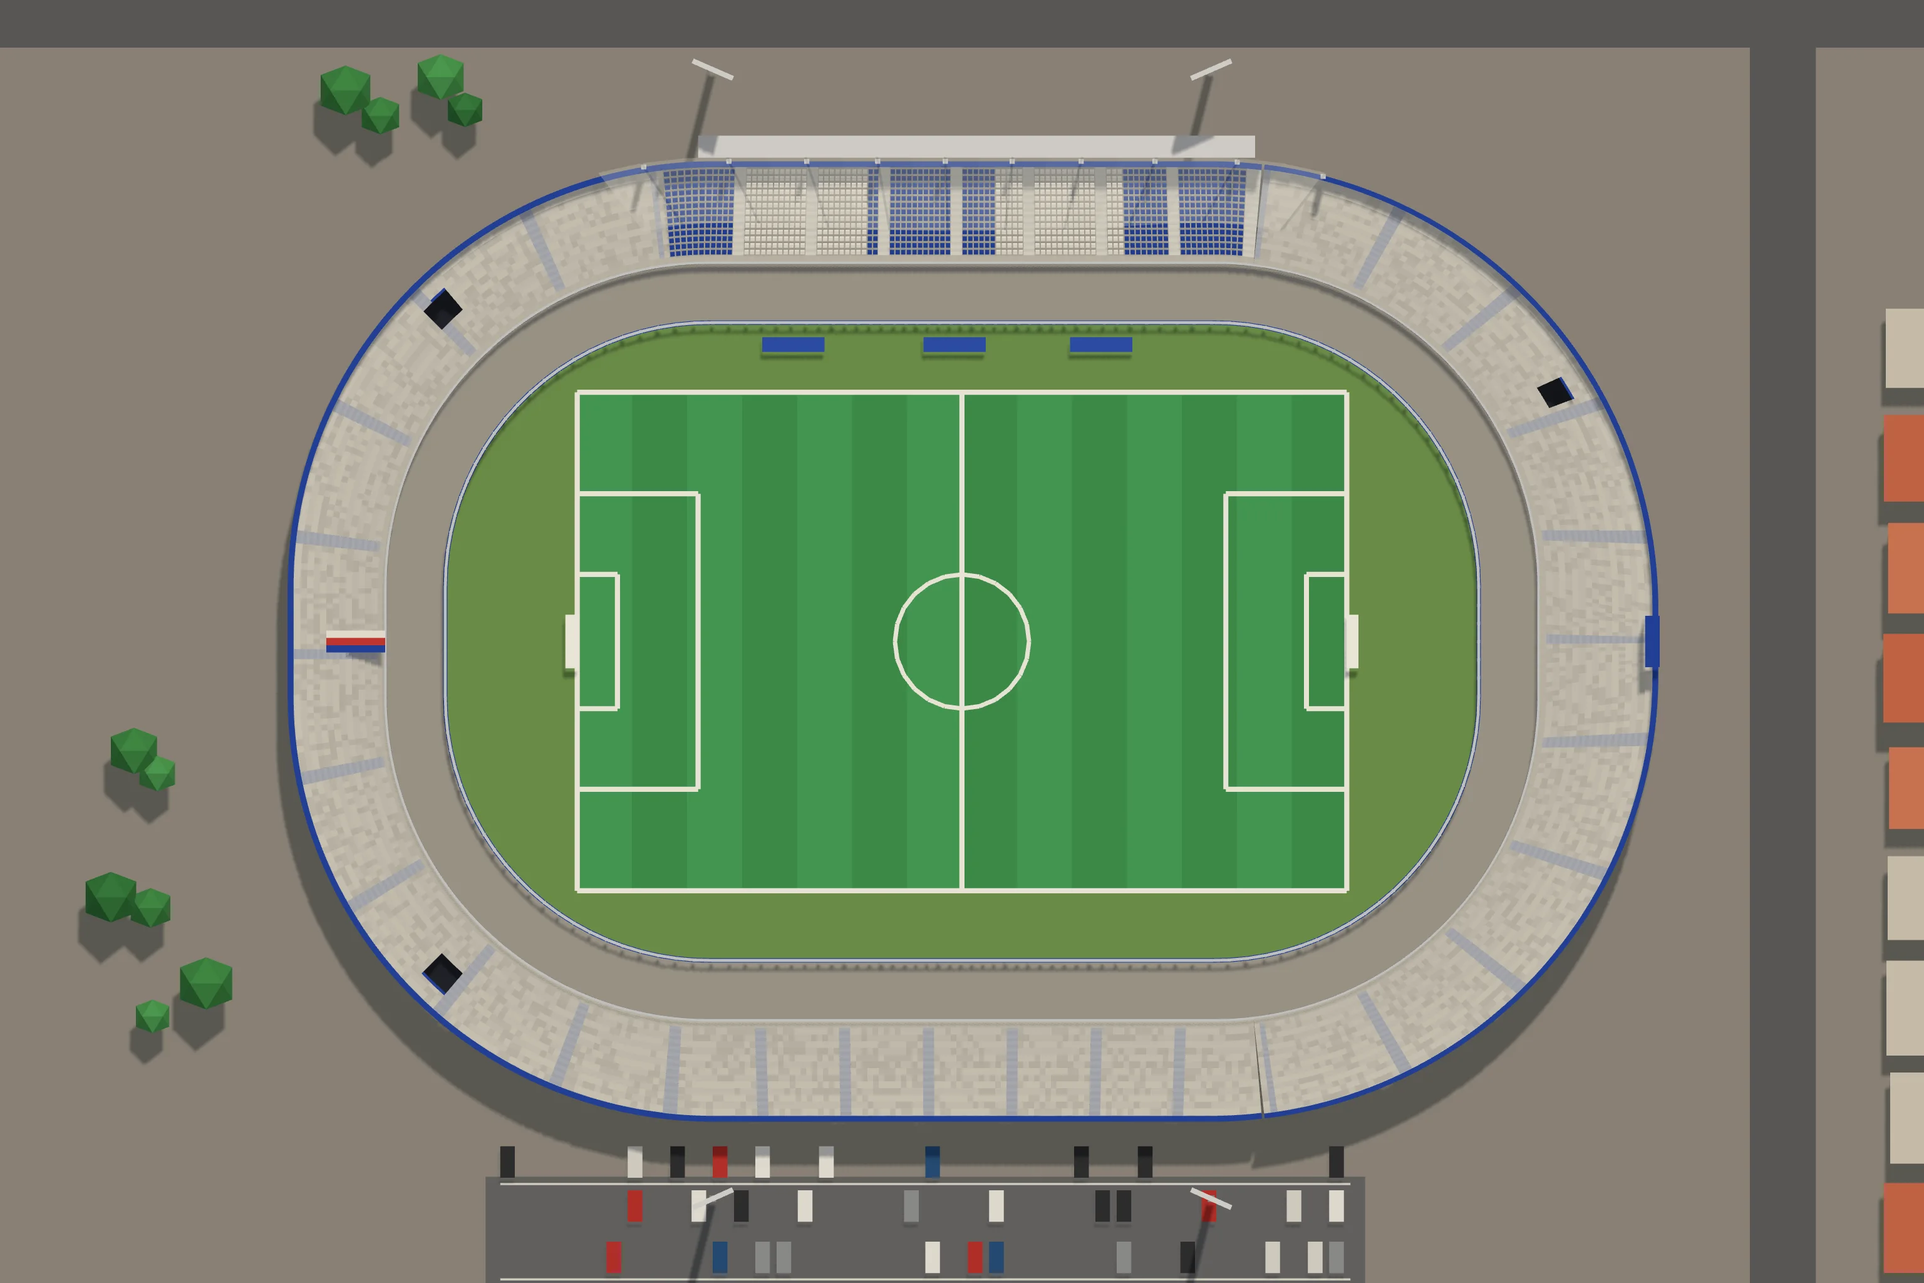
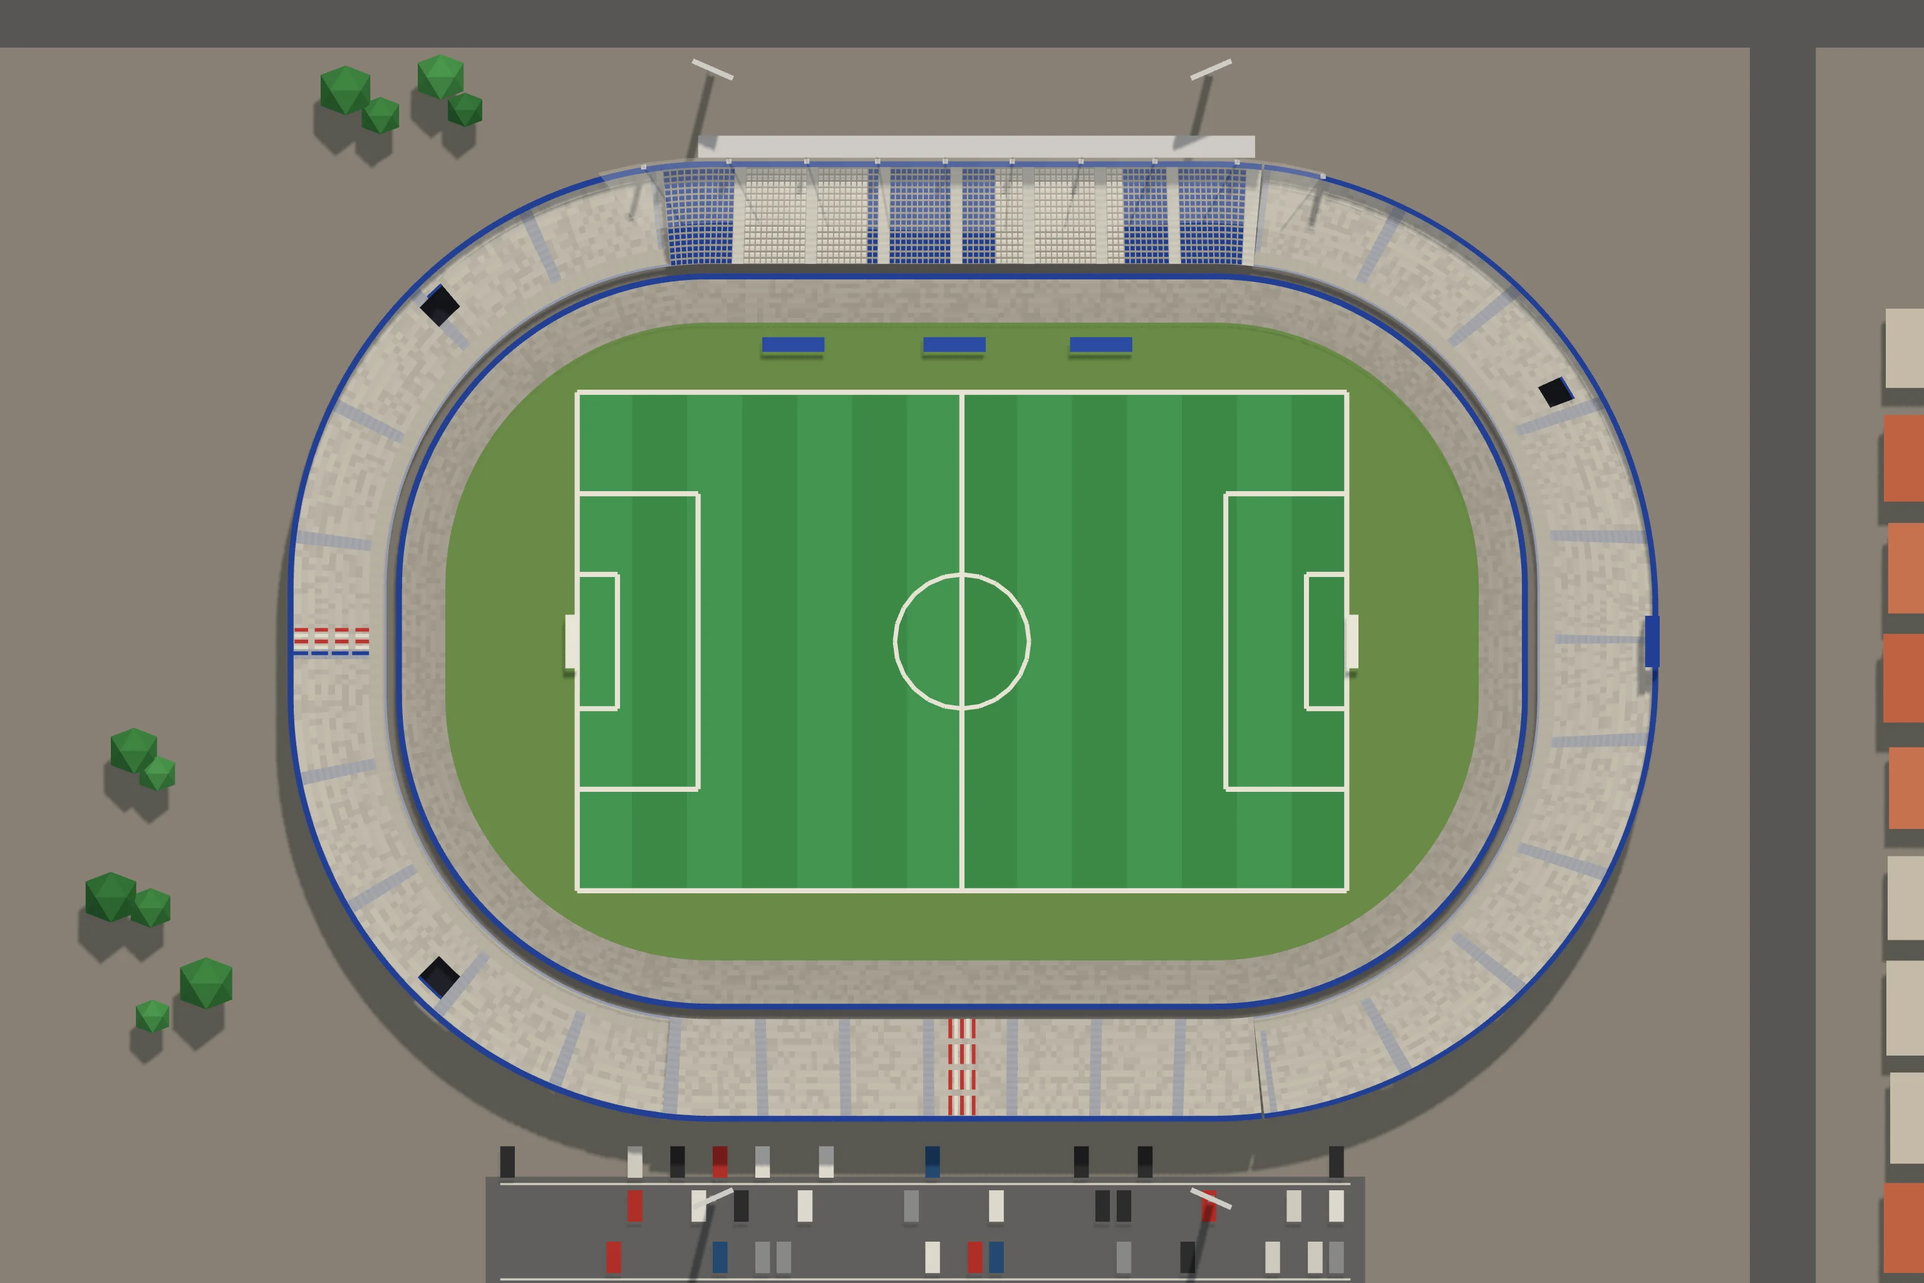
Jonas Duarte: a geral de degraus baixos em volta do gramado
Claude-Session: https://claude.ai/code/session_019hwwMAyyP7ZAvyq6wYTetr

diff --git a/cenario3d/planta.html b/cenario3d/planta.html
@@ -289,24 +289,24 @@ button:focus-visible, input:focus-visible { outline: 2px solid var(--selecao); o
 
 <script type="module">
 import * as THREE from 'https://cdn.jsdelivr.net/npm/three@0.160.0/build/three.module.min.js';
-import { planoDaCasa, montarCasa, juntarBlocos, lugarDoDecalque, placasDoLote, segmentosDoMuro, carrosDoEstacionamento, portaoDoEstacionamento } from './js/casas3d.js?v=cc6ef40957';
-import { montarModelos } from './js/modelos3d.js?v=cc6ef40957';
-import { moldeDaPeca, comTransformador } from './js/props3d.js?v=cc6ef40957';
-import { ATLAS } from './js/modelos_atlas.js?v=cc6ef40957';
-import { Construtor, sorteio } from './js/construtor3d.js?v=cc6ef40957';
-import { gerarProposta, MAPAS, MAPA_DO_PORTE, RUA, LONGE_DO_ESTADIO_M, cisaoDaPraca, VAO_CIDADES_M, PRAIA_A_MAIS } from './js/proposta.js?v=cc6ef40957';
-import { montarSede, nivelQueCabe } from './js/sede3d.js?v=cc6ef40957';
-import { onibus as onibusDetalhe, juntar as juntarDetalhe } from './js/detalhe3d.js?v=cc6ef40957';
-import { montarLoteDeVeraneio, plantaDoLote, festaNoMundo, noMundoDoLote, cenaDaFesta, detalheDaCasaDaFesta } from './js/veraneio3d.js?v=cc6ef40957';
-import { montarCaravana, cenaDaCaravana } from './js/caravana3d.js?v=cc6ef40957';
-import { montarEstacao, montarTunel, montarCarro, TREM } from './js/metro3d.js?v=cc6ef40957';
-import { montarShopping, montarDelegacia, montarPraca, montarIgreja, montarEscola, montarHospital } from './js/equip3d.js?v=cc6ef40957';
-import { montarEquipAntigo, TIPOS_ANTIGOS } from './js/equip_antigo3d.js?v=cc6ef40957';
-import { PECAS_PRAIA, montarPecaDaPraia } from './js/praia3d.js?v=cc6ef40957';
-import { ESPECIES_LP, FLORA_LP, montarArvoreLowpoly, montarAsDez, facesDaArvore, especieLowpolyDe } from './js/arvores_lowpoly.js?v=cc6ef40957';
-import { plantarMato, montarMato, LONGE_M, DENSIDADE, LADRILHO_M } from './js/mato3d.js?v=cc6ef40957';
-import { ESTADIOS_JOGO, montarEstadioJogo, glbDoEstadio, cortarEstadio, plantaDoEstadio, modeloDaLotacao, nomeDoLetreiro, nomeComAcento, marcaDoEstadio, BOCAS_DOS_PORTOES, BILHETERIAS_DA_RUA } from './js/estadios3d.js?v=cc6ef40957';
-import { PECAS_AMBULANTES, montarAmbulante } from './js/ambulantes3d.js?v=cc6ef40957';
+import { planoDaCasa, montarCasa, juntarBlocos, lugarDoDecalque, placasDoLote, segmentosDoMuro, carrosDoEstacionamento, portaoDoEstacionamento } from './js/casas3d.js?v=e42aaedc33';
+import { montarModelos } from './js/modelos3d.js?v=e42aaedc33';
+import { moldeDaPeca, comTransformador } from './js/props3d.js?v=e42aaedc33';
+import { ATLAS } from './js/modelos_atlas.js?v=e42aaedc33';
+import { Construtor, sorteio } from './js/construtor3d.js?v=e42aaedc33';
+import { gerarProposta, MAPAS, MAPA_DO_PORTE, RUA, LONGE_DO_ESTADIO_M, cisaoDaPraca, VAO_CIDADES_M, PRAIA_A_MAIS } from './js/proposta.js?v=e42aaedc33';
+import { montarSede, nivelQueCabe } from './js/sede3d.js?v=e42aaedc33';
+import { onibus as onibusDetalhe, juntar as juntarDetalhe } from './js/detalhe3d.js?v=e42aaedc33';
+import { montarLoteDeVeraneio, plantaDoLote, festaNoMundo, noMundoDoLote, cenaDaFesta, detalheDaCasaDaFesta } from './js/veraneio3d.js?v=e42aaedc33';
+import { montarCaravana, cenaDaCaravana } from './js/caravana3d.js?v=e42aaedc33';
+import { montarEstacao, montarTunel, montarCarro, TREM } from './js/metro3d.js?v=e42aaedc33';
+import { montarShopping, montarDelegacia, montarPraca, montarIgreja, montarEscola, montarHospital } from './js/equip3d.js?v=e42aaedc33';
+import { montarEquipAntigo, TIPOS_ANTIGOS } from './js/equip_antigo3d.js?v=e42aaedc33';
+import { PECAS_PRAIA, montarPecaDaPraia } from './js/praia3d.js?v=e42aaedc33';
+import { ESPECIES_LP, FLORA_LP, montarArvoreLowpoly, montarAsDez, facesDaArvore, especieLowpolyDe } from './js/arvores_lowpoly.js?v=e42aaedc33';
+import { plantarMato, montarMato, LONGE_M, DENSIDADE, LADRILHO_M } from './js/mato3d.js?v=e42aaedc33';
+import { ESTADIOS_JOGO, montarEstadioJogo, glbDoEstadio, cortarEstadio, plantaDoEstadio, modeloDaLotacao, nomeDoLetreiro, nomeComAcento, marcaDoEstadio, BOCAS_DOS_PORTOES, BILHETERIAS_DA_RUA } from './js/estadios3d.js?v=e42aaedc33';
+import { PECAS_AMBULANTES, montarAmbulante } from './js/ambulantes3d.js?v=e42aaedc33';
 
 const $ = id => document.getElementById(id);
 const aviso = $('aviso');
@@ -323,25 +323,25 @@ function carregarScript(src) {
 }
 window.TO = window.TO || { dados: {} };
 try {
-  await carregarScript('dados/torcidas.js?v=cc6ef40957');
-  await carregarScript('dados/times.js?v=cc6ef40957');
-  await carregarScript('dados/cena_estadio.js?v=cc6ef40957');
-  await carregarScript('dados/cidades.js?v=cc6ef40957');
-  await carregarScript('dados/estadios.js?v=cc6ef40957');
-  await carregarScript('dados/escudos.js?v=cc6ef40957');
+  await carregarScript('dados/torcidas.js?v=e42aaedc33');
+  await carregarScript('dados/times.js?v=e42aaedc33');
+  await carregarScript('dados/cena_estadio.js?v=e42aaedc33');
+  await carregarScript('dados/cidades.js?v=e42aaedc33');
+  await carregarScript('dados/estadios.js?v=e42aaedc33');
+  await carregarScript('dados/escudos.js?v=e42aaedc33');
   /* o manifesto das faixas de verdade (a arte do dono, 29/09/2026): a arquibancada estende a da torcida */
-  await carregarScript('dados/faixas.js?v=cc6ef40957').catch(() => {});
+  await carregarScript('dados/faixas.js?v=e42aaedc33').catch(() => {});
   /* O DOMÍNIO DOS BAIRROS (o dono, 30/09/2026): as sedes repetidas num
      bairro saem espalhadas (nos dados, na carga) e os bares ganham o
      bairro deles — o mesmo módulo do jogo (js/mundo/dominio.js) */
-  await carregarScript('js/dominio.js?v=cc6ef40957').catch(() => {});
+  await carregarScript('js/dominio.js?v=e42aaedc33').catch(() => {});
 } catch (e) {
   aviso.textContent = 'A planta da cidade não carregou (' + e.message + '). Recarregue a página.';
   throw e;
 }
 /* os PNG dos escudos, embutidos (o montar.sh gera): sem o arquivo, o
    caminho vai direto pra img/escudos/ */
-await carregarScript('dados/escudos_embutidos.js?v=cc6ef40957').catch(() => {});
+await carregarScript('dados/escudos_embutidos.js?v=e42aaedc33').catch(() => {});
 const P = TO.dados.plantaEstadio, K = P.CIDADE, M = P.METRO, CALC = K.CALC;
 /* o mapa da vez (o pequeno, o médio ou o grande, montado pra praça
    escolhida): quem monta é usarMapa, lá embaixo */

diff --git a/cenario3d/dados/estadios_cenas.js b/cenario3d/dados/estadios_cenas.js
@@ -15869,7 +15869,7 @@ window.__ESTADIOS = {
    "visitante": 3
   },
   "foto": {
-   "imagem": "img/cenas/estadio_jonas_duarte.webp?v=e5d3ecd0",
+   "imagem": "img/cenas/estadio_jonas_duarte.webp?v=a4fbb3a7",
    "mascara": "384;384;384;384;384;384;384;384;384;384;384;384;384;384;384;384;384;384;384;384;384;384;384;384;384;384;384;384;384;384;384;384;384;132,120,132;126,132,126;122,140,122;118,149,117;115,155,114;112,161,111;110,165,109;107,171,106;105,175,104;103,179,102;101,183,100;99,187,98;98,189,97;96,193,95;95,196,93;93,199,92;92,202,90;91,204,89;89,207,88;88,209,87;87,212,85;86,214,84;85,216,83;84,218,82;83,220,81;82,222,80;81,224,79;80,226,78;79,228,77;78,230,76;77,232,75;76,56,120,58,74;76,52,128,54,74;75,49,136,51,73;74,48,140,50,72;73,46,146,48,71;73,44,150,47,70;72,44,152,46,70;71,43,156,45,69;71,41,160,44,68;70,41,162,43,68;70,39,166,42,67;69,39,168,41,67;68,39,170,41,66;68,38,172,41,65;67,38,174,40,65;67,37,176,40,64;66,37,178,39,64;66,36,180,39,63;66,35,182,38,63;65,35,184,38,62;65,34,186,37,62;64,35,186,38,61;64,34,188,37,61;64,33,190,36,61;63,33,192,36,60;63,33,192,36,60;62,33,194,36,59;62,33,194,36,59;62,32,196,35,59;62,32,196,36,58;61,32,198,35,58;61,32,198,35,58;61,31,200,35,57;60,32,200,35,57;60,31,202,34,57;60,31,202,34,57;60,31,202,35,56;60,30,204,34,56;59,31,204,34,56;59,31,204,34,56;59,31,204,35,55;59,30,206,34,55;59,30,206,34,55;59,30,206,34,55;59,30,206,34,55;59,30,206,34,55;58,30,208,33,55;58,30,208,34,54;58,30,208,34,54;58,30,208,34,54;58,30,208,34,54;58,30,208,34,54;58,30,208,34,54;58,30,208,34,54;58,30,208,34,54;58,30,208,34,54;58,30,208,34,54;58,30,208,34,54;58,30,208,34,54;58,30,208,34,54;58,30,208,34,54;58,30,208,34,54;58,30,208,34,54;58,30,208,34,54;58,30,208,34,54;58,30,208,34,54;58,30,208,34,54;58,30,208,34,54;58,30,208,34,54;58,30,208,34,54;58,30,208,34,54;58,30,208,34,54;58,30,208,34,54;58,30,208,34,54;58,30,208,34,54;58,30,208,34,54;58,30,208,34,54;58,30,208,34,54;58,30,208,34,54;58,30,208,34,54;58,30,208,34,54;58,30,208,33,55;59,30,206,34,55;59,30,206,34,55;59,30,206,34,55;59,30,206,34,55;59,30,206,34,55;59,31,204,35,55;59,31,204,34,56;59,31,204,34,56;60,30,204,34,56;60,31,202,35,56;60,31,202,34,57;60,31,202,34,57;60,32,200,35,57;61,31,200,35,57;61,32,198,35,58;61,32,198,35,58;62,32,196,36,58;62,32,196,35,59;62,33,194,36,59;62,33,194,36,59;63,33,192,36,60;63,33,192,36,60;64,33,190,36,61;64,34,188,37,61;64,35,186,38,61;65,34,186,37,62;65,35,184,38,62;66,35,182,38,63;66,36,180,39,63;66,37,178,39,64;67,37,176,40,64;67,38,174,40,65;68,38,172,41,65;68,39,170,41,66;69,39,168,41,67;70,39,166,42,67;70,41,162,43,68;71,41,160,44,68;71,43,156,45,69;72,44,152,46,70;73,44,150,47,70;73,46,146,48,71;74,48,140,50,72;75,49,136,51,73;76,52,128,54,74;76,56,120,58,74;77,232,75;78,230,76;79,228,77;80,226,78;81,224,79;82,222,80;83,220,81;84,218,82;85,216,83;86,214,84;87,212,85;88,209,87;89,207,88;91,204,89;92,202,90;93,199,92;95,196,93;96,193,95;98,189,97;99,187,98;101,183,100;103,179,102;105,175,104;107,171,106;110,165,109;112,161,111;115,155,114;118,149,117;122,140,122;126,132,126;132,120,132;384;384;384;384;384;384;384;384;384;384;384;384;384;384;384;384;384;384;384;384;384;384;384;384;384;384;384;384;384;384;384;384;384"
   },
   "cena": {

diff --git a/cenario3d/js/jogo2d.js b/cenario3d/js/jogo2d.js
@@ -17,7 +17,7 @@
    cartão da partida cai perto da hora da bola e nada do que conta o
    placar passa na frente dele.
    ========================================================= */
-import { CASCA } from './jogo_casca.js?v=cc6ef40957';
+import { CASCA } from './jogo_casca.js?v=e42aaedc33';
 
 const carregarScript = src => new Promise((ok, erro) => {
   const s = document.createElement('script');
@@ -31,18 +31,18 @@ async function montarJogo() {
   caixa.innerHTML = CASCA;
   while (caixa.firstChild) document.body.appendChild(caixa.firstChild);
   /* os escudos, as fotos das praças e as bandeiras embutidos (o `IMG()` do jogo procura aqui antes do caminho) */
-  await carregarScript('dados/imagens_jogo.js?v=cc6ef40957').catch(() => {});
+  await carregarScript('dados/imagens_jogo.js?v=e42aaedc33').catch(() => {});
   /* os estádios low-poly das cenas (ferramentas/estadios/assar.js): antes do jogo, que monta as cenas quando carrega */
-  await carregarScript('dados/estadios_cenas.js?v=cc6ef40957').catch(() => {});
-  await carregarScript('dados/arredores_cenas.js?v=cc6ef40957').catch(() => {});
+  await carregarScript('dados/estadios_cenas.js?v=e42aaedc33').catch(() => {});
+  await carregarScript('dados/arredores_cenas.js?v=e42aaedc33').catch(() => {});
   /* sem o rolo do feed: a tela entre os jogos é o portal */
   window.TO = window.TO || {};
   TO.semFeed = true;
-  await carregarScript('js/jogo.js?v=cc6ef40957');
-  await carregarScript('js/portal.js?v=cc6ef40957').catch(err => console.error('o portal não carregou:', err));
+  await carregarScript('js/jogo.js?v=e42aaedc33');
+  await carregarScript('js/portal.js?v=e42aaedc33').catch(err => console.error('o portal não carregou:', err));
   /* o boneco das cenas de imagem (os dois níveis afinados, em base64) */
-  if (!TO.dados.bonecoPertoGLB) await carregarScript('dados/boneco_glb.js?v=cc6ef40957').catch(() => {});
-  await import('./bonecos3_global.js?v=cc6ef40957').catch(err => console.error('o boneco das cenas não carregou:', err));
+  if (!TO.dados.bonecoPertoGLB) await carregarScript('dados/boneco_glb.js?v=e42aaedc33').catch(() => {});
+  await import('./bonecos3_global.js?v=e42aaedc33').catch(err => console.error('o boneco das cenas não carregou:', err));
   ligar();
 }
 

diff --git a/cenario3d/jogo.html b/cenario3d/jogo.html
@@ -9,16 +9,16 @@
 <link rel="preconnect" href="https://fonts.googleapis.com">
 <link rel="preconnect" href="https://fonts.gstatic.com" crossorigin>
 <link rel="stylesheet" href="https://fonts.googleapis.com/css2?family=Barlow+Semi+Condensed:wght@500;600;700&family=Barlow:wght@400;500;600&family=IBM+Plex+Mono:wght@400;500&display=swap">
-<link rel="stylesheet" href="css/jogo.css?v=cc6ef40957">
-<link rel="stylesheet" href="css/jogo3d.css?v=cc6ef40957">
-<link rel="stylesheet" href="css/portal.css?v=cc6ef40957">
-<link rel="stylesheet" href="css/telas3d.css?v=cc6ef40957">
+<link rel="stylesheet" href="css/jogo.css?v=e42aaedc33">
+<link rel="stylesheet" href="css/jogo3d.css?v=e42aaedc33">
+<link rel="stylesheet" href="css/portal.css?v=e42aaedc33">
+<link rel="stylesheet" href="css/telas3d.css?v=e42aaedc33">
 <style>
 [hidden] { display: none !important; }
 html, body { height: 100%; margin: 0; }
 </style>
 </head>
 <body class="jogo3d">
-<script type="module" src="js/jogo2d.js?v=cc6ef40957"></script>
+<script type="module" src="js/jogo2d.js?v=e42aaedc33"></script>
 </body>
 </html>

diff --git a/cenario3d/js/casas3d.js b/cenario3d/js/casas3d.js
@@ -60,10 +60,10 @@
    avançam (`rec`), e o letreiro, a pixação e a falha de reboco do
    bairro vão pro plano dessa parede, não pro da divisa.
    ========================================================= */
-import { Construtor, METRO, mureta, toldo, arSplit, sorteio } from './construtor3d.js?v=cc6ef40957';
-import { ATLAS } from './modelos_atlas.js?v=cc6ef40957';
+import { Construtor, METRO, mureta, toldo, arSplit, sorteio } from './construtor3d.js?v=e42aaedc33';
+import { ATLAS } from './modelos_atlas.js?v=e42aaedc33';
 /* as lojas do assalto (lojas3d.js): modelos de lote como os outros */
-import { TIPOS_LOJA, REC_LOJA, placaDaLoja } from './lojas3d.js?v=cc6ef40957';
+import { TIPOS_LOJA, REC_LOJA, placaDaLoja } from './lojas3d.js?v=e42aaedc33';
 
 /* o arquivo de cada folha, pro bairro montar o material dele */
 export const arquivoDaFolha = folha => ATLAS[folha].arquivo;

diff --git a/cenario3d/js/ambulantes3d.js b/cenario3d/js/ambulantes3d.js
@@ -27,8 +27,8 @@
    que a planta acha o lugar dela na calçada do estádio. `sol`: o meio e
    o raio da copa ([x, z, r]), que o mapa desenha de perto.
    ========================================================= */
-import { Construtor, noMundo, placasNoMundo, sorteio, esfera, unit } from './construtor3d.js?v=cc6ef40957';
-import { Lugar, barra, tubo, cilindro, bloco, pano, toro, guardaSol, cadeiraPlastica, isopor, banqueta, CORES_SOL } from './praia3d.js?v=cc6ef40957';
+import { Construtor, noMundo, placasNoMundo, sorteio, esfera, unit } from './construtor3d.js?v=e42aaedc33';
+import { Lugar, barra, tubo, cilindro, bloco, pano, toro, guardaSol, cadeiraPlastica, isopor, banqueta, CORES_SOL } from './praia3d.js?v=e42aaedc33';
 
 const AQUI = Lugar();
 const escolha = (rnd, lista) => lista[Math.floor(rnd() * lista.length) % lista.length];

diff --git a/cenario3d/js/praia3d.js b/cenario3d/js/praia3d.js
@@ -36,8 +36,8 @@
    cadeira e a mesa de plástico) servem também os ambulantes da porta do
    estádio (ambulantes3d.js), na mesma folha.
    ========================================================= */
-import { Construtor, METRO, lerp, sub, soma, esc, unit, pv, noMundo, placasNoMundo, sorteio, varrer, esfera } from './construtor3d.js?v=cc6ef40957';
-import { montarArvoreLowpoly } from './arvores_lowpoly.js?v=cc6ef40957';
+import { Construtor, METRO, lerp, sub, soma, esc, unit, pv, noMundo, placasNoMundo, sorteio, varrer, esfera } from './construtor3d.js?v=e42aaedc33';
+import { montarArvoreLowpoly } from './arvores_lowpoly.js?v=e42aaedc33';
 
 const ALTO = [0, 1, 0];
 const escolha = (rnd, lista) => lista[Math.floor(rnd() * lista.length) % lista.length];

diff --git a/cenario3d/js/modelos3d.js b/cenario3d/js/modelos3d.js
@@ -32,8 +32,8 @@
    requadro da janela, toldo, ar-condicionado. O resto é pintura.
    ========================================================= */
 import * as THREE from 'https://cdn.jsdelivr.net/npm/three@0.160.0/build/three.module.min.js';
-import { ATLAS } from './modelos_atlas.js?v=cc6ef40957';
-import { Construtor, METRO, lerp, sub, soma, esc, pv, pe, unit, recuoPoligono, mureta, toldo, arSplit } from './construtor3d.js?v=cc6ef40957';
+import { ATLAS } from './modelos_atlas.js?v=e42aaedc33';
+import { Construtor, METRO, lerp, sub, soma, esc, pv, pe, unit, recuoPoligono, mureta, toldo, arSplit } from './construtor3d.js?v=e42aaedc33';
 
 /* =======================================================
    1. A IGREJA MATRIZ

diff --git a/cenario3d/js/props3d.js b/cenario3d/js/props3d.js
@@ -26,8 +26,8 @@
    poste vira uma haste de longe; o resto, que é miúdo, some.
    ========================================================= */
 import * as THREE from 'https://cdn.jsdelivr.net/npm/three@0.160.0/build/three.module.min.js';
-import { ATLAS } from './modelos_atlas.js?v=cc6ef40957';
-import { Construtor, METRO, lerp } from './construtor3d.js?v=cc6ef40957';
+import { ATLAS } from './modelos_atlas.js?v=e42aaedc33';
+import { Construtor, METRO, lerp } from './construtor3d.js?v=e42aaedc33';
 
 /* as cores que o vértice dá pro que sai claro na folha */
 const COR_CESTO = ['#6aa33a', '#d2b53a', '#3f82ad', '#8b6a3c', '#b8452f'];

diff --git a/cenario3d/js/mato3d.js b/cenario3d/js/mato3d.js
@@ -19,8 +19,8 @@
 
    Tudo em metros; `noMundo` converte. A mesma semente dá o mesmo mato.
    ========================================================= */
-import { METRO, noMundo, sorteio } from './construtor3d.js?v=cc6ef40957';
-import { facesDaArvore, especieLowpolyDe } from './arvores_lowpoly.js?v=cc6ef40957';
+import { METRO, noMundo, sorteio } from './construtor3d.js?v=e42aaedc33';
+import { facesDaArvore, especieLowpolyDe } from './arvores_lowpoly.js?v=e42aaedc33';
 
 /* a área de chão de cada árvore (m²), por lugar */
 export const DENSIDADE = { mata: 70, cerrado: 200, caatinga: 150, sul: 90, praia: 120, cidade: 250 };

diff --git a/cenario3d/js/bonecos3_global.js b/cenario3d/js/bonecos3_global.js
@@ -14,7 +14,7 @@
    DOMContentLoaded: quem usa (a ponte, numa cena aberta pelo jogador)
    chega muito depois.
    ========================================================= */
-import { montar, desenharDeCima, desenharVitrine, limparDeCima, fotoDoTrofeu, fotoDaBriga, fotoDaCena, perdeu, bonecos } from './bonecos3_cena.js?v=cc6ef40957';
+import { montar, desenharDeCima, desenharVitrine, limparDeCima, fotoDoTrofeu, fotoDaBriga, fotoDaCena, perdeu, bonecos } from './bonecos3_cena.js?v=e42aaedc33';
 
 window.TO = window.TO || {};
 TO.diaJogo = TO.diaJogo || {};

diff --git a/cenario3d/js/bonecos3_cena.js b/cenario3d/js/bonecos3_cena.js
@@ -103,7 +103,7 @@
       numa fase sorteada (quem sai junto não sai no mesmo pé).
    ========================================================= */
 import * as THREE from 'https://cdn.jsdelivr.net/npm/three@0.160.0/build/three.module.min.js';
-import { GLTFLoader, SkeletonUtils } from './GLTFLoader.js?v=cc6ef40957';
+import { GLTFLoader, SkeletonUtils } from './GLTFLoader.js?v=e42aaedc33';
 
 /* onde o modelo mora, quando não vem embutido em base64: o detalhado
    (o do Blender) e os dois níveis afinados dele (ferramentas/afinar_boneco.mjs) */
